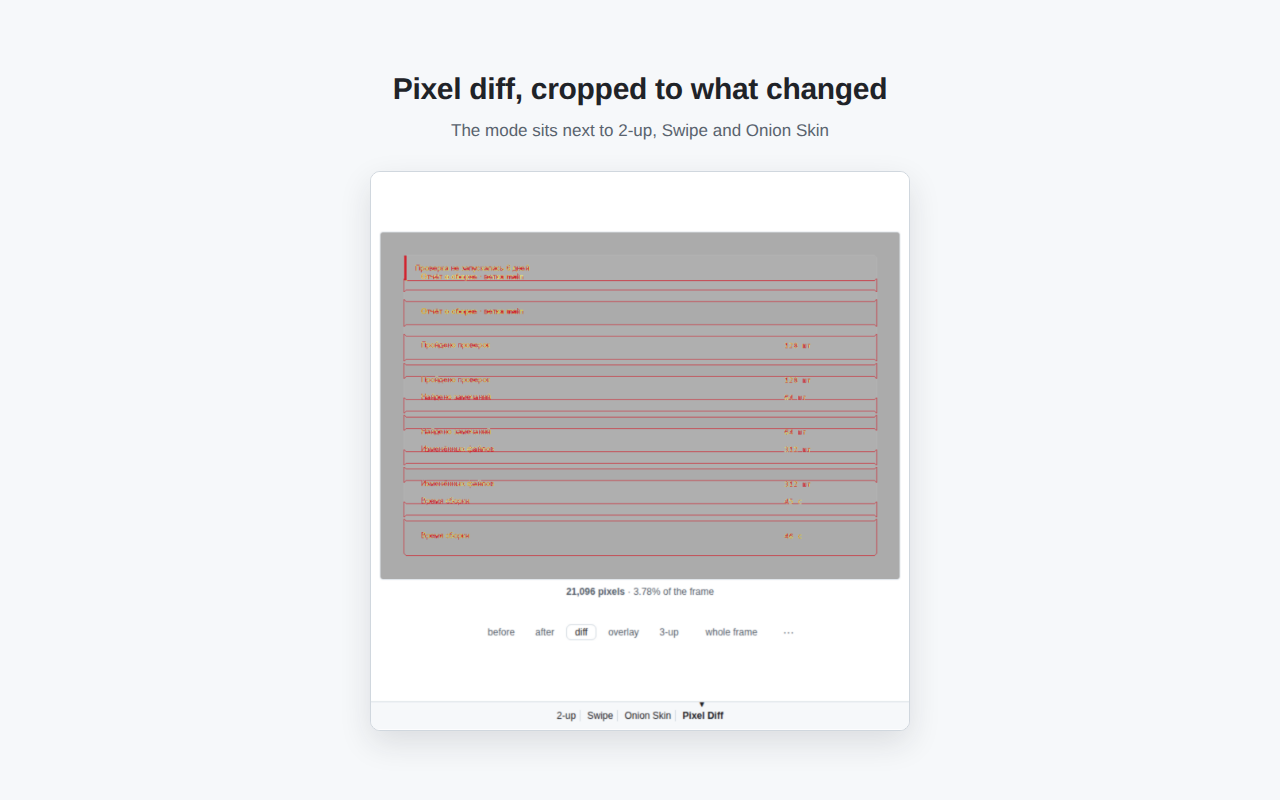
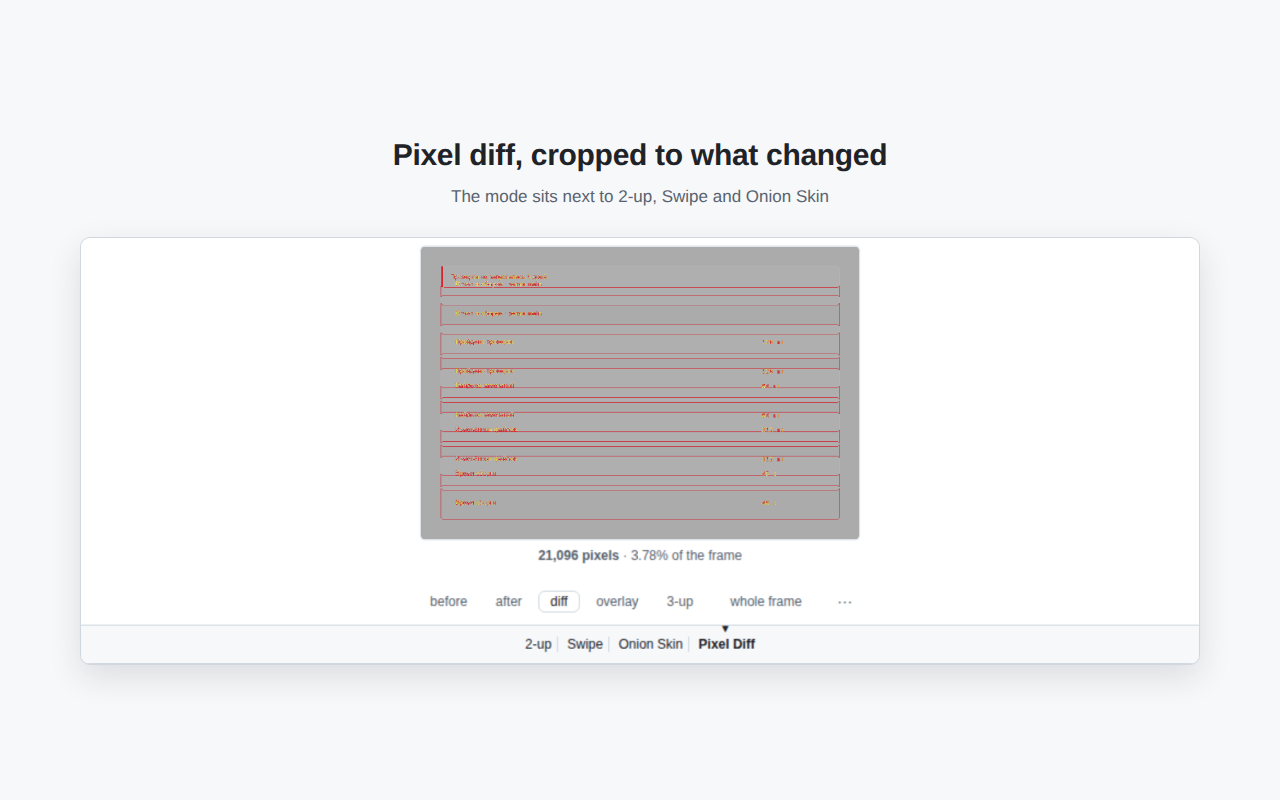
fix: a menu that never empties, and screenshots GitHub had shrunk
Two things the fresh screenshots exposed.

The «⋯» menu hid whatever did not apply, and in 3-up with a crop that
left a lone slider behind — a menu that looks broken. Its composition is
fixed now: what is out of place dims instead of vanishing.

The frame shots had turned portrait and unreadable. Not the panel: at a
1000px viewport GitHub now hands the diff an iframe 678px wide and stacks
before and after, so the frame comes out tall and the 1280×800 store card
shrinks it to nothing. The shots are taken at 1400 now, where the frame is
1022×388 — the same horizontal strip as always.

Claude-Session: https://claude.ai/code/session_016fKwt5HdDhRjXLBNcnDHxu

diff --git a/tests/frame.spec.js b/tests/frame.spec.js
@@ -1182,8 +1182,27 @@ test('три кадра рядом не сохраняются одной кар
   await waitForResult(page);
   await page.click('.ghpd-views .ghpd-view-button:nth-child(5)');
 
+  // Пункт не пропадает, а гаснет: меню из одного ползунка выглядит сломанным.
   await openMenu(page);
-  await expect(page.locator('.ghpd-save')).toBeHidden();
+  await expect(page.locator('.ghpd-save')).toBeDisabled();
+});
+
+test('состав «⋯» не меняется: неуместное гаснет, а не пропадает', async ({ page }) => {
+  // В «3-up» нечего сохранять, в обрезке нечего обводить — и если прятать оба
+  // пункта, под «⋯» остаётся один ползунок, а меню выглядит сломанным.
+  await page.setViewportSize({ width: 900, height: 700 });
+  await openFrame(page);
+  await injectExtension(page);
+  await page.click('.ghpd-mode-item');
+  await waitForResult(page);
+  await page.click('.ghpd-views .ghpd-view-button:nth-child(5)');
+  await openMenu(page);
+
+  await expect(page.locator('.ghpd-menu-panel .ghpd-slider')).toBeVisible();
+  await expect(page.locator('.ghpd-outline-toggle')).toBeVisible();
+  await expect(page.locator('.ghpd-outline-toggle')).toBeDisabled();
+  await expect(page.locator('.ghpd-save')).toBeVisible();
+  await expect(page.locator('.ghpd-save')).toBeDisabled();
 });
 
 test('под курсором видно, какой был пиксель и каким стал', async ({ page }) => {

diff --git a/src/content/frame.js b/src/content/frame.js
@@ -374,12 +374,15 @@
       // как вернуться обратно, — поэтому кнопка сброса называет его вслух.
       zoomReset.hidden = !single || zoom.scale <= 1;
       if (!zoomReset.hidden) zoomReset.textContent = t('zoomReset', zoomLabel(zoom.scale, locale()));
-      // Рамка есть только в полном кадре — там же и переключатель.
-      outlineToggle.hidden = cropped || !result.bounds;
+      // Состав меню постоянный: то, что сейчас не к месту, гаснет, а не
+      // пропадает. Иначе в кадре «3-up» под «⋯» оставался один ползунок, и
+      // меню выглядело сломанным.
+      // Рамка рисуется только в полном кадре — в обрезке ей нечего делать.
+      outlineToggle.disabled = cropped || !result.bounds;
       outlineToggle.textContent = outline ? t('hideOutline') : t('showOutline');
       // Сохранять есть что только в одиночном кадре: три кадра рядом лежат
       // на трёх холстах, и «эта картинка» перестаёт быть одной картинкой.
-      save.hidden = !single;
+      save.disabled = !single;
     };
 
     /** Рисует все три кадра сразу; размер возвращаем по разнице — она общая. */

diff --git a/src/content/gitlab.js b/src/content/gitlab.js
@@ -340,12 +340,15 @@
       // вернуться обратно, — поэтому кнопка сброса называет его вслух.
       zoomReset.hidden = !single || zoom.scale <= 1;
       if (!zoomReset.hidden) zoomReset.textContent = t('zoomReset', zoomLabel(zoom.scale, locale()));
-      // Рамка есть только в полном кадре — там же и переключатель.
-      outlineToggle.hidden = cropped || !result.bounds;
+      // Состав меню постоянный: то, что сейчас не к месту, гаснет, а не
+      // пропадает. Иначе в кадре «3-up» под «⋯» оставался один ползунок, и
+      // меню выглядело сломанным.
+      // Рамка рисуется только в полном кадре — в обрезке ей нечего делать.
+      outlineToggle.disabled = cropped || !result.bounds;
       outlineToggle.textContent = outline ? t('hideOutline') : t('showOutline');
       // Сохранять есть что только в одиночном кадре: три кадра рядом лежат
       // на трёх холстах, и «эта картинка» перестаёт быть одной картинкой.
-      save.hidden = !single;
+      save.disabled = !single;
     }
 
     cropToggle.addEventListener('click', () => {

diff --git a/site/app.js b/site/app.js
@@ -234,12 +234,15 @@
     // вернуться обратно, — поэтому кнопка сброса называет его вслух.
     zoomReset.hidden = !single || zoom.scale <= 1;
     if (!zoomReset.hidden) zoomReset.textContent = t('zoomReset', zoomLabel(zoom.scale, locale()));
-    // Рамка есть только в полном кадре — там же и переключатель.
-    outlineToggle.hidden = cropped || !result.bounds;
+    // Состав меню постоянный: то, что сейчас не к месту, гаснет, а не
+    // пропадает. Иначе в кадре «3-up» под «⋯» оставался один ползунок, и
+    // меню выглядело сломанным.
+    // Рамка рисуется только в полном кадре — в обрезке ей нечего делать.
+    outlineToggle.disabled = cropped || !result.bounds;
     outlineToggle.textContent = outline ? t('hideOutline') : t('showOutline');
     // Сохранять есть что только в одиночном кадре: три кадра рядом лежат на
     // трёх холстах, и «эта картинка» перестаёт быть одной картинкой.
-    save.hidden = !single;
+    save.disabled = !single;
   }
 
   cropToggle.addEventListener('click', () => {

diff --git a/src/content/panel.css b/src/content/panel.css
@@ -245,7 +245,18 @@
   text-decoration: none;
 }
 
-.ghpd-menu-panel button:hover { background: var(--bgColor-neutral-muted, #818b981f); }
+.ghpd-menu-panel button:hover:not(:disabled) {
+  background: var(--bgColor-neutral-muted, #818b981f);
+}
+
+/* Погасший пункт: он есть, но сейчас не к месту — рамки нет в обрезке, а трёх
+   кадров рядом не сохранить одной картинкой. Пропадать ему незачем: меню из
+   одного ползунка выглядит сломанным. */
+.ghpd-menu-panel button:disabled {
+  color: var(--fgColor-muted, #59636e);
+  opacity: 0.5;
+  cursor: default;
+}
 
 .ghpd-menu-panel button:focus-visible {
   outline: 2px solid var(--fgColor-accent, #0969da);
